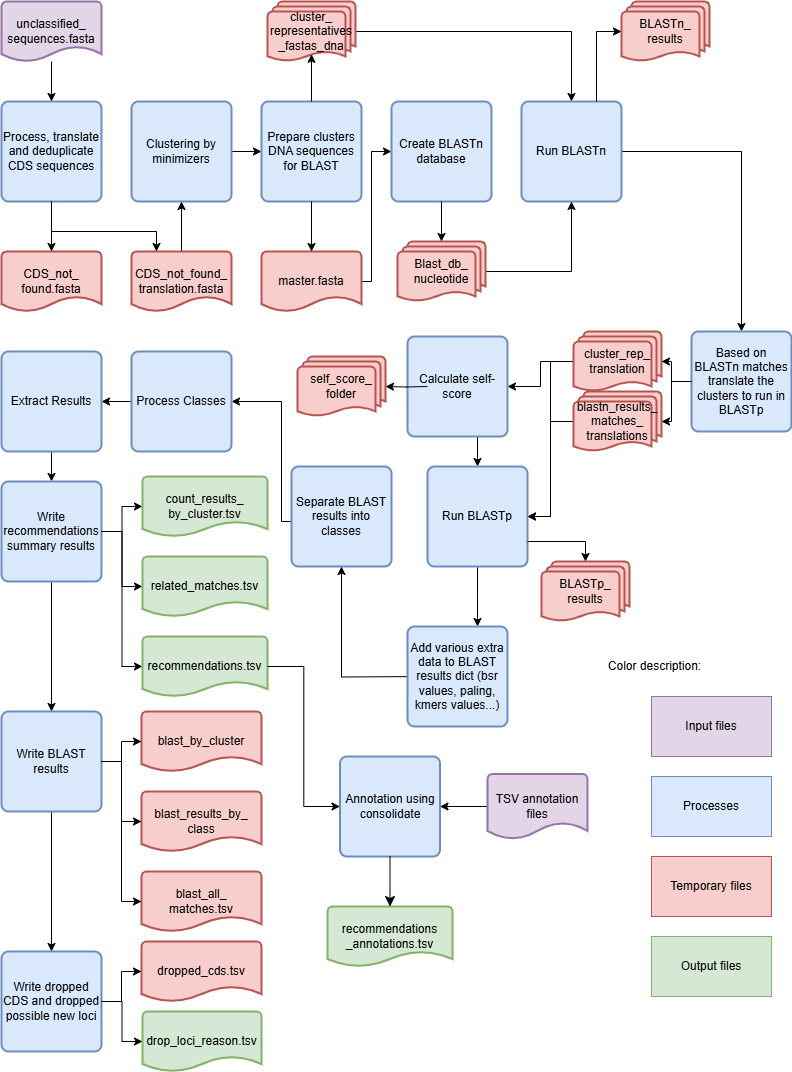
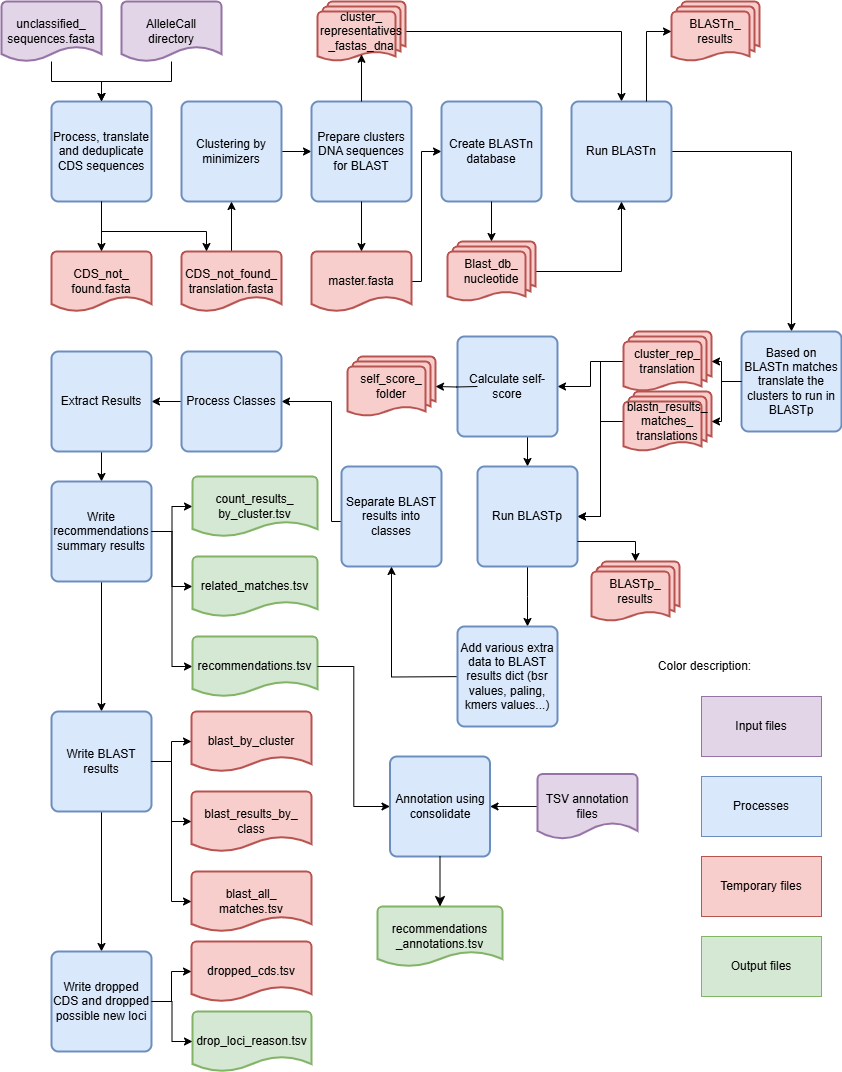
Fix (docs): Updated Documentations and images

diff --git a/SchemaRefinery/docs/SchemaRefinery/Modules/CreateSchemaStructure.rst b/SchemaRefinery/docs/SchemaRefinery/Modules/CreateSchemaStructure.rst
@@ -3,7 +3,7 @@ CreateSchemaStructure - Create a new schema based on
 
 Description
 ------------
-The `CreateSchemaStructure` module is a module designed to facilitate the creation of a schema structure from a given schema or fasta files based on user recommendation file. This module parses command-line arguments to initiate the schema creation process, allowing users to efficiently generate a schema structure from a provided schema file. The generated schema structure is stored in the specified output directory.
+The `CreateSchemaStructure` module is a module designed to facilitate the creation of a schema structure from a given schema or fasta files based on user recommendation file from the `IdentifyParalogousLoci` and `IdentifySpuriousGenes` modules. This module parses command-line arguments to initiate the schema creation process, allowing users to efficiently generate a schema structure from a provided schema file. The generated schema structure is stored in the specified output directory.
 
 Overview
 --------
@@ -83,7 +83,13 @@ The `CreateSchemaStructure` module uses the following algorithm to create a sche
    :align: center
 
 
-Make sure that before running this module the input file `recommendations` has been check and that  you agree with all the changes proposed. For example, a locus that has the action Join should not have the action Choice as well. One of these rows should be removed.
+Make sure that before running this module the input file `recommendations` has been check and that  you agree with all the changes proposed. **No action should have the option 'Choice'.** These should be changed into one of the other three actions.
+
+The action **'Join'** will move all the alleles of that cluster of loci into the fasta file of the first locus of the cluster. The other Loci files will be removed from the final schema.
+
+The action **'Drop'** will remove that locus fasta file from the final schema.
+
+The action **'Add'** will just copy the fasta file of that locus from the input schema into the final schema with no alterations.
 
 Since this module uses the AdaptLoci module to format the schema in the end, the schema created will conform with the structure of the schemas used by chewBBACA.
 

diff --git a/SchemaRefinery/docs/SchemaRefinery/Modules/AdaptLoci.rst b/SchemaRefinery/docs/SchemaRefinery/Modules/AdaptLoci.rst
@@ -3,7 +3,7 @@ AdaptLoci - Adapt fastas into a chewBBACA schema
 
 Description
 -----------
-The `AdaptLoci` module is designed to adapt loci from FASTA files into a chewBBACA-compatible schema. This module processes input loci and runs the module PrepExternalSchema from chewBBACA.
+The `AdaptLoci` module is designed to adapt loci from FASTA files into a chewBBACA-compatible schema. This is teh schema structure that is assumed all throughout the tool. This module processes input loci and runs the module PrepExternalSchema from chewBBACA.
 
 This module is essential for researchers and bioinformaticians working on genomic schema refinement, providing a robust and flexible tool for adapting loci into a standardized schema format.
 
@@ -19,7 +19,7 @@ Dependencies
 
 - Python 3.9 or higher
 - BLAST (`https://www.ncbi.nlm.nih.gov/books/NBK279690/ <https://www.ncbi.nlm.nih.gov/books/NBK279690/>`_)
-- ChewBBACA (`https://chewbbaca.readthedocs.io/en/latest/user/getting_started/installation.html`_ or using bioconda)
+- ChewBBACA (`https://chewbbaca.readthedocs.io/en/latest/user/getting_started/installation.html <https://chewbbaca.readthedocs.io/en/latest/user/getting_started/installation.html>`_ or using bioconda)
 - Install requirements using the following command:
 
 .. code-block:: bash
@@ -66,10 +66,12 @@ Command-Line Arguments
         (Optional) Path to the logger file.
         Default: None
 
+
 Algorithm Explanation
 ---------------------
 This module calls on the PrepExternalSchema module from chewBBACA with a simplified list of arguments.
-For more clarification check the PrepExternalSchema documentation (`https://chewbbaca.readthedocs.io/en/latest/user/modules/PrepExternalSchema.html#`_)
+For more clarification check the PrepExternalSchema documentation (`https://chewbbaca.readthedocs.io/en/latest/user/getting_started/installation.html <https://chewbbaca.readthedocs.io/en/latest/user/modules/PrepExternalSchema.html#>`_)
+
 
 Outputs
 -------

diff --git a/SchemaRefinery/docs/SchemaRefinery/Modules/IdentifySpuriousGenes.rst b/SchemaRefinery/docs/SchemaRefinery/Modules/IdentifySpuriousGenes.rst
@@ -116,6 +116,9 @@ Command-Line Arguments
         (Optional) Path to the logger file.
         Default: None
 
+
+The options `--schema-directory` and `--allelecall-directory` must have two paths each if the `run_mode` is `schema_vs_schema`. One path per schema and each schema must have a respective AlleleCall directory.
+
 .. Note::
     In `processing_mode` the option `reps_vs_reps` is the fastest and covers most of the cases.
     The option `all_vs_all` takes much more time and changes the recommendation of around more 1% of the total loci. 
@@ -160,10 +163,9 @@ Depending on the classification, each locus will have a specific action recommen
 
 Choice is a recommendation for the user to decide if the locus should just be added with no alteration ('Add'), dropped ('Drop') or joined to the cluster it is in ('Join'). 
 
-.. Note:: 
-    Before passing the recommendation file to the CSS module make sure there are no 'Choice' in the action column.
-
 The other loci will have the action 'Add' and will just be added, without alteration, to the new schema.
+
+The recommendation associated to each locus can change in the final output. For example, a locus that was part of a 1a cluster can be marked as 'Choice' if it does not pass certain thresholds of frequency.
 
 The column from the annotation file that has the highest number of matches between loci IDs with the schema fasta IDs will be chosen as the one to merge.
 
@@ -388,6 +390,12 @@ columns description:
     Locus: Name of the locus to be joined in the clustered.
     Action: Action to be taken (Join, Choice, Drop or Add).
     #: Separates each cluster of loci.
+
+This file can be used as the input of the `CreateSchemaStructure`. The annotated version of this file can not. 
+
+.. Note:: 
+    Before passing the recommendation file to the CSS module make sure there are no 'Choice' in the action column.
+
 
 
 .. csv-table:: **recommendations_annotations.tsv**

diff --git a/SchemaRefinery/docs/SchemaRefinery/Modules/MatchSchemas.rst b/SchemaRefinery/docs/SchemaRefinery/Modules/MatchSchemas.rst
@@ -6,6 +6,8 @@ Description
 
 The `MatchSchemas` module parses command-line arguments and initiates the process to match schemas. This module sets up an argument parser to handle various command-line options for matching schemas and then calls the main function of the `MatchSchemas` class with the parsed arguments.
 
+This module can be used to compare versions of schemas of the same species or schemas of two different species. It identifies matching loci between the two schemas.
+
 Features
 --------
 
@@ -74,6 +76,11 @@ Command-Line Arguments
         (Optional) Path to the logger file.
         Default: None
 
+
+.. Note::
+    The --rep_vs_alleles mode is a more indept comparision. It takes longer to process, however the number of extra matches found is small.
+    Should be used as an extra and more detailed comparision.
+
 Algorithm Explanation
 ---------------------
 
@@ -83,6 +90,7 @@ MatchSchemas Algorithm Flowchart:
    :alt: MatchSchemas Algorithm
    :width: 80%
    :align: center
+
 
 
 The module assignes the designation of Query to the schema with higher allele density per loci.
@@ -172,8 +180,8 @@ Report files description
     :header: "Query", "Subject", "BSR", "Process"
     :widths: 20, 20, 10, 20
 
-    x, y, 0.8, hashes_vs_hashes
-    z, a, 1.0, hashes_vs_hashes
+    x, y, 1.0, hashes_dna
+    z, a, 1.0, hashes_prot
     b, c, 0.965, rep_vs_rep
     d, Not Matched, NA, rep_vs_rep
     Not Matched, e, NA, rep_vs_alleles
@@ -189,6 +197,8 @@ columns description:
     Process: From which type of comparision is this match from.
 
 For the hashes comparisions the BSR value will always be set to 1.0 as this will be considered the same locus.
+
+This file can be used as the input of the `SchemaAnnotation` module with the `match_schemas` option.
 
 Examples
 --------

diff --git a/SchemaRefinery/docs/SchemaRefinery/Modules/IdentifyParalogousLoci.rst b/SchemaRefinery/docs/SchemaRefinery/Modules/IdentifyParalogousLoci.rst
@@ -166,7 +166,7 @@ columns description:
 
 .. csv-table:: **paralogous_loci_report_cluster_by_id.tsv**
    :header: "Joined_loci_id", "Clustered_loci_ids"
-   :widths: 10, 40
+   :widths: 10, 20
 
    x, "x,a,b,c"
    y, "y,d,e,f"
@@ -202,9 +202,11 @@ columns description:
     #: Separates each cluster of loci.
 
 
+This file can be used as the input of the `CreateSchemaStructure`. The annotated version of this file can not.
+
 .. csv-table:: **paralogous_annotations.tsv**
    :header: "Loci", "Action", "Locus_annotation", "Annotation"
-   :widths: 10, 20, 10, 40
+   :widths: 10, 15, 10, 20
 
    x, Join, x, annotation
    y, Join, y, annotation
